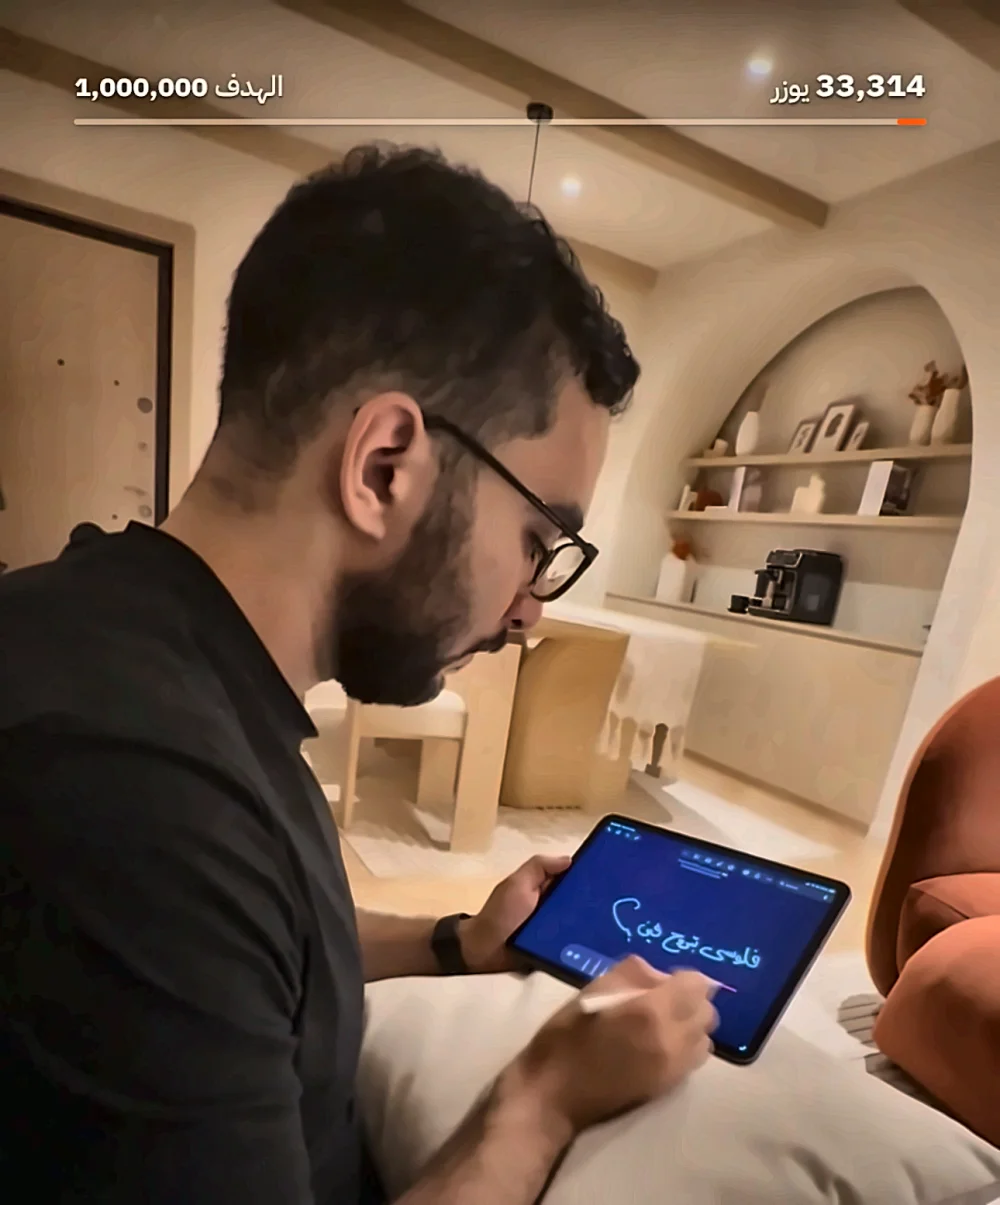
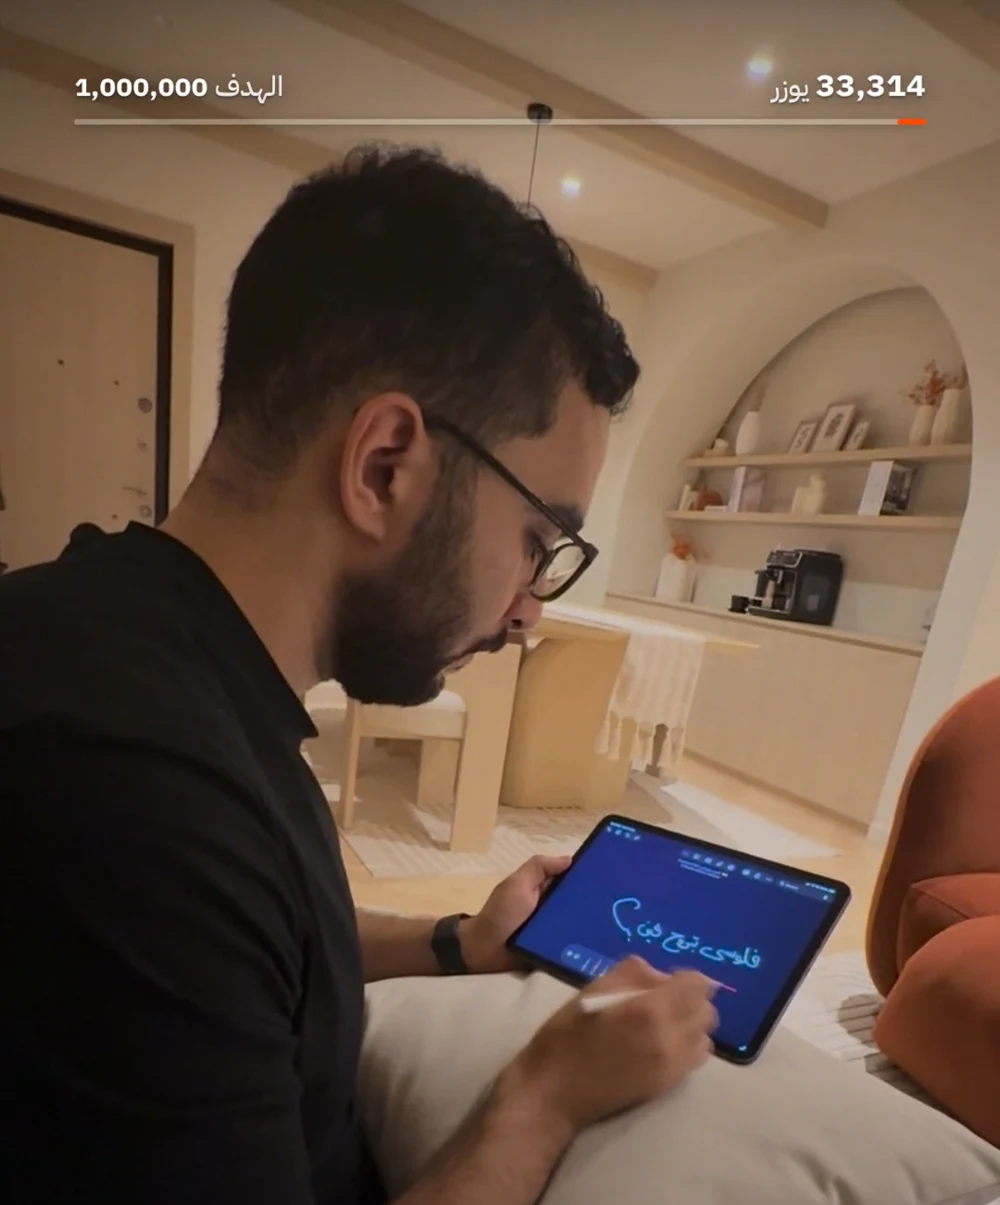
me: two natural photos only; 'I make content'
Claude-Session: https://claude.ai/code/session_01Dt1qxrqNwLt1sDhViMNk1D

diff --git a/me/index.html b/me/index.html
@@ -40,8 +40,8 @@
         <span class="en"><span class="l1">HOSSAM</span><span class="l2">FAHMY</span></span>
       </h1>
       <p class="hero__line">
-        <span class="ar">فاوندر <b class="lime ul">MoneyLoop<svg class="mk" viewBox="0 0 100 12" preserveAspectRatio="none" aria-hidden="true"><path pathLength="1" d="M2 8 C20 3 40 11 60 6 S88 4 98 7"/></svg></b>.<br>مهندس سوفتوير، وبتكلم عن الفلوس.</span>
-        <span class="en">Founder of <b class="lime ul">MoneyLoop<svg class="mk" viewBox="0 0 100 12" preserveAspectRatio="none" aria-hidden="true"><path pathLength="1" d="M2 8 C20 3 40 11 60 6 S88 4 98 7"/></svg></b>.<br>Software engineer. I talk about money.</span>
+        <span class="ar">فاوندر <b class="lime ul">MoneyLoop<svg class="mk" viewBox="0 0 100 12" preserveAspectRatio="none" aria-hidden="true"><path pathLength="1" d="M2 8 C20 3 40 11 60 6 S88 4 98 7"/></svg></b>.<br>مهندس سوفتوير، وبعمل محتوى.</span>
+        <span class="en">Founder of <b class="lime ul">MoneyLoop<svg class="mk" viewBox="0 0 100 12" preserveAspectRatio="none" aria-hidden="true"><path pathLength="1" d="M2 8 C20 3 40 11 60 6 S88 4 98 7"/></svg></b>.<br>Software engineer. Content creator.</span>
       </p>
     </div>
   </section>
@@ -49,8 +49,8 @@
   <!-- INTRO -->
   <section class="intro">
     <p class="big">
-      <span class="ar">درست <span class="scr">حقوق<svg class="mk" viewBox="0 0 100 40" preserveAspectRatio="none" aria-hidden="true"><path pathLength="1" d="M2 26 C18 14 30 30 46 18 S74 10 98 20 M4 14 C26 30 52 6 70 24 S88 30 97 12 M8 32 C30 22 60 34 96 26"/></svg></span>. وأنا لسه في الكلية شاركت في تأسيس ستارت أب. قلبت كارير للبرمجة في ITI، ودلوقتي سينيور سوفتوير إنجينير الصبح، وبالليل ببني <b class="lime">MoneyLoop</b> وبعمل محتوى عن الفلوس.</span>
-      <span class="en">I studied <span class="scr">law<svg class="mk" viewBox="0 0 100 40" preserveAspectRatio="none" aria-hidden="true"><path pathLength="1" d="M2 26 C18 14 30 30 46 18 S74 10 98 20 M4 14 C26 30 52 6 70 24 S88 30 97 12 M8 32 C30 22 60 34 96 26"/></svg></span>. While still in college, I co-founded a startup. Made a career shift into code at ITI. Now I'm a senior software engineer by day, and by night I build <b class="lime">MoneyLoop</b> and make videos about money.</span>
+      <span class="ar">درست <span class="scr">حقوق<svg class="mk" viewBox="0 0 100 40" preserveAspectRatio="none" aria-hidden="true"><path pathLength="1" d="M2 26 C18 14 30 30 46 18 S74 10 98 20 M4 14 C26 30 52 6 70 24 S88 30 97 12 M8 32 C30 22 60 34 96 26"/></svg></span>. وأنا لسه في الكلية شاركت في تأسيس ستارت أب. قلبت كارير للبرمجة في ITI، ودلوقتي سينيور سوفتوير إنجينير الصبح، وبالليل ببني <b class="lime">MoneyLoop</b> وبعمل محتوى.</span>
+      <span class="en">I studied <span class="scr">law<svg class="mk" viewBox="0 0 100 40" preserveAspectRatio="none" aria-hidden="true"><path pathLength="1" d="M2 26 C18 14 30 30 46 18 S74 10 98 20 M4 14 C26 30 52 6 70 24 S88 30 97 12 M8 32 C30 22 60 34 96 26"/></svg></span>. While still in college, I co-founded a startup. Made a career shift into code at ITI. Now I'm a senior software engineer by day, and by night I build <b class="lime">MoneyLoop</b> and make content.</span>
     </p>
   </section>
 
@@ -88,7 +88,6 @@
       <span class="ch__yr">2024</span>
       <h3><span class="ar">سينيور سوفتوير إنجينير.</span><span class="en">Senior engineer.</span></h3>
       <p><span class="ar">ببني أبلكيشنات بيستخدمها 50 ألف واحد في الشهر: خليتها أسرع بـ 35% وشغالة 99.9% من الوقت. اترقيت لسينيور في سنة ونص، وخدت جايزة أحسن موظف 4 مرات.</span><span class="en">I build apps used by 50K people a month: made them 35% faster and up 99.9% of the time. Promoted to senior in a year and a half, with four star-employee awards.</span></p>
-      <img class="ch__img" src="/me/code.webp" alt="" loading="lazy" width="960" height="1280">
     </article>
 
     <article class="ch ch--ml">
@@ -102,7 +101,7 @@
 
   <!-- CONTENT -->
   <section class="content" aria-labelledby="content-h">
-    <h2 id="content-h" class="kicker mono"><span class="ar">بعمل محتوى كمان</span><span class="en">I make content too</span></h2>
+    <h2 id="content-h" class="kicker mono"><span class="ar">بعمل محتوى</span><span class="en">Content</span></h2>
     <a class="show" href="https://www.tiktok.com/@el2ersh.elabyad" target="_blank" rel="noopener">
       <span class="show__name"><span class="ar">القرش الأبيض</span><span class="en">El 2ersh El Abyad</span></span>
       <span class="show__stats"><span><b>43.9K</b><i class="ar">متابع</i><i class="en">followers</i></span><span><b>3.8M+</b><i class="ar">مشاهدة</i><i class="en">views</i></span><span><b>1.7M</b><i class="ar">أعلى فيديو</i><i class="en">top video</i></span></span>
